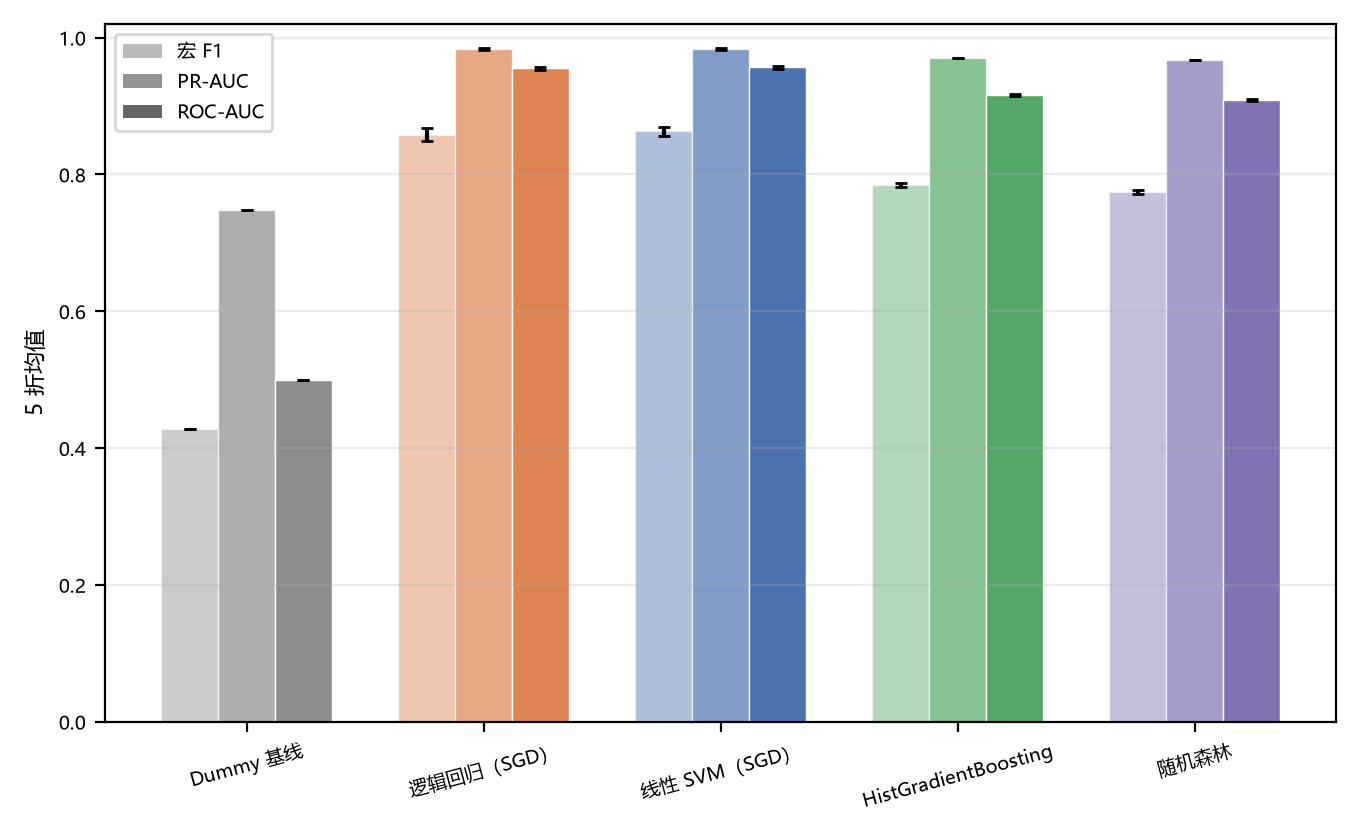
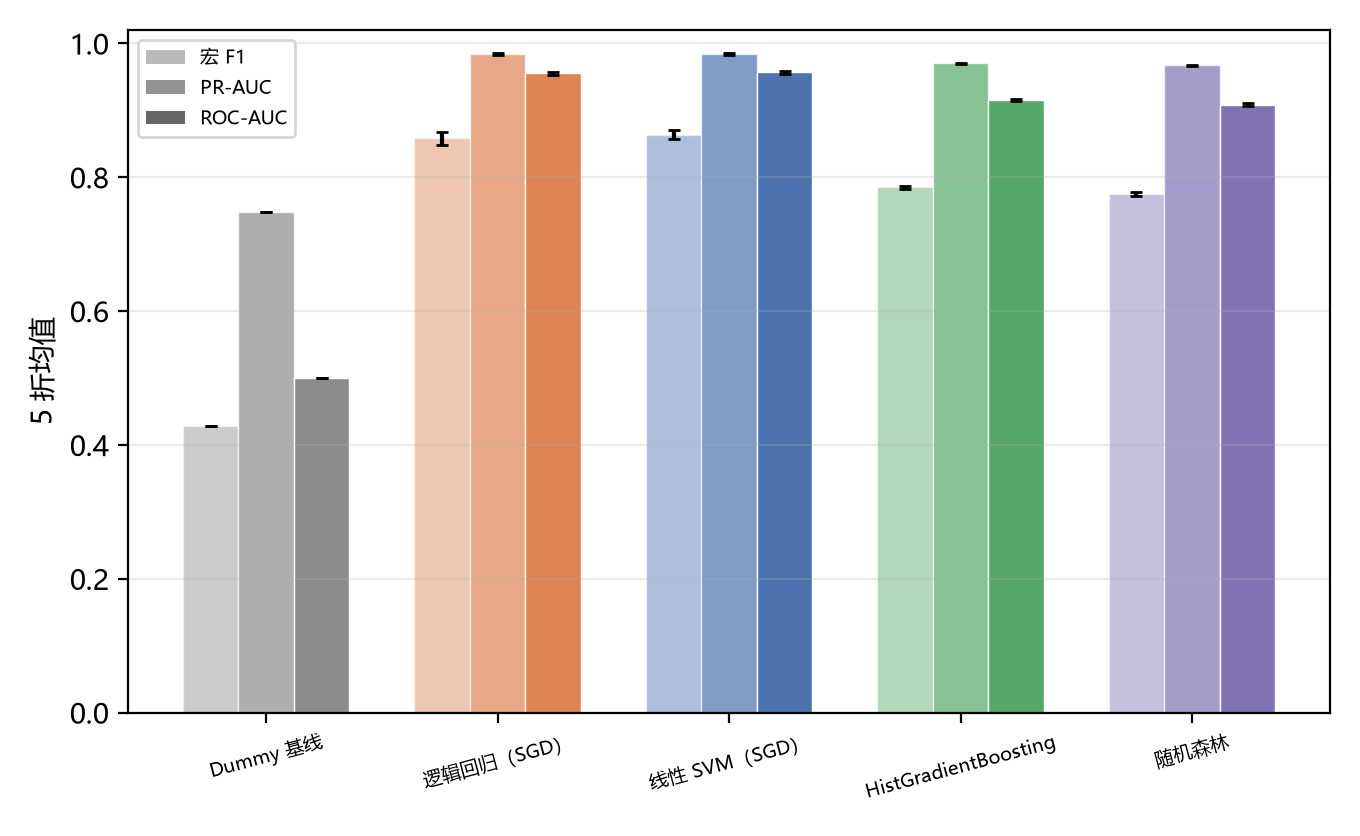
fix(figures): avoid SHAP panel title clipping

Changed region(s): [[0.0309, 0.0, 0.9882, 0.9641], [0.0, 0.3421, 0.0926, 0.4976], [0.8338, 0.2177, 0.8647, 0.2488]]

diff --git a/src/classify.py b/src/classify.py
@@ -388,7 +388,7 @@ def plot_shap(contributions: np.ndarray, base_value: float, feature_names: list[
             color=["#C44E52" if values[i] > 0 else "#4C72B0" for i in order][::-1],
         )
         axes[index].set_title(
-            f"{index + 1} {samples[index]['group']}  logit={samples[index]['score']:.3f}  实际={samples[index]['label']}",
+            f"{index + 1} {samples[index]['group']}  f={samples[index]['score']:.2f}  y={samples[index]['label']}",
             fontsize=6.5,
             pad=3,
         )
